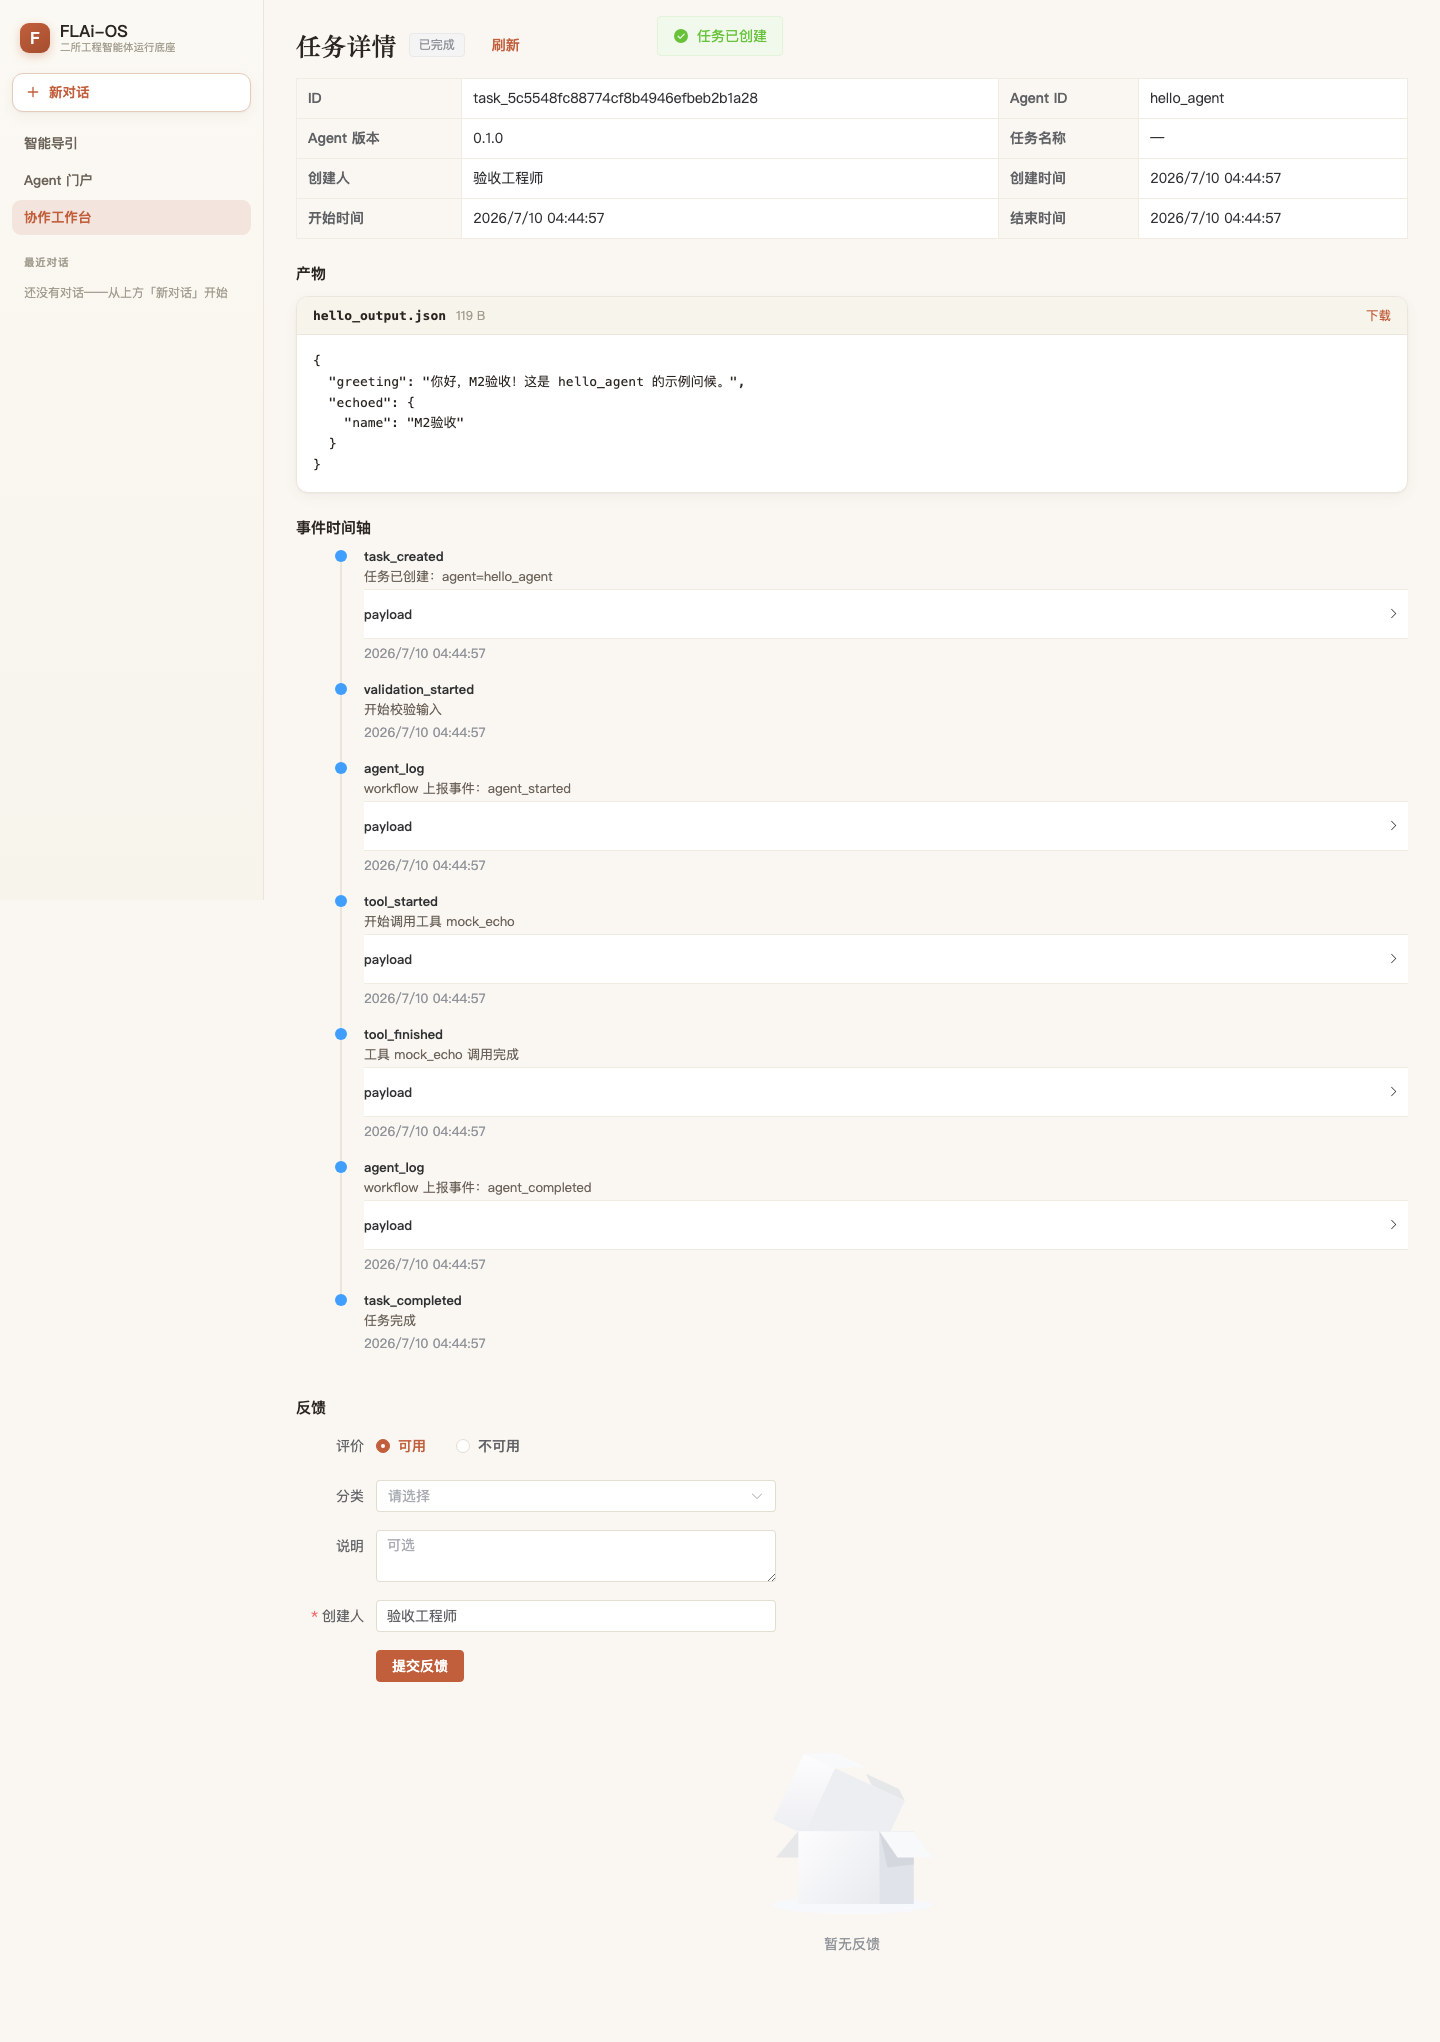
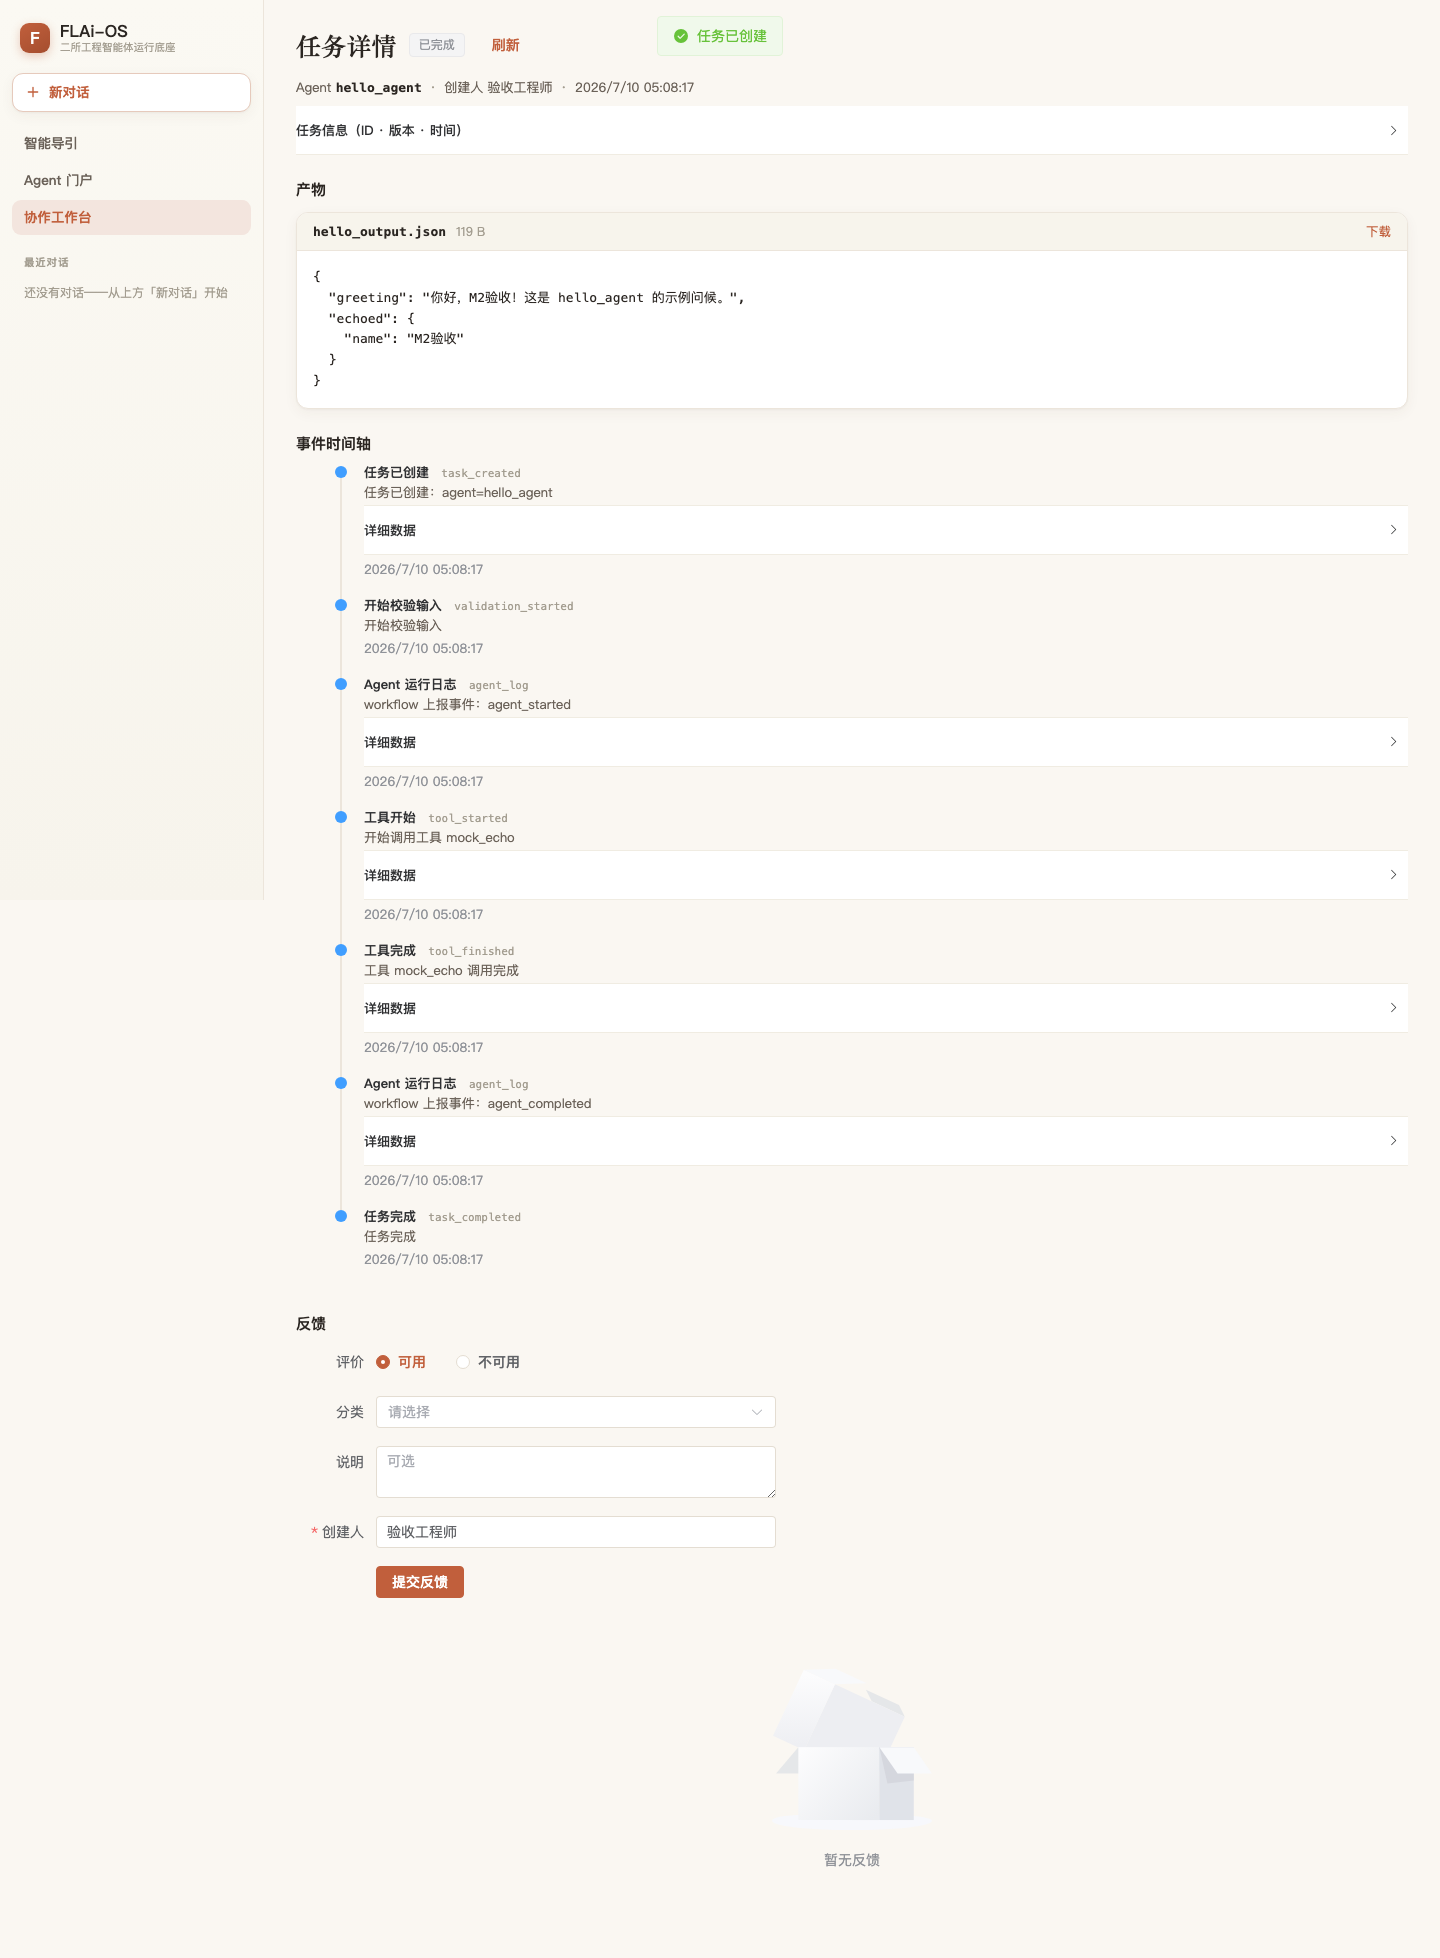
feat(detail): 详情页改工程师视角——元数据降次要 + 事件时间轴去黑话（P1-6）
采用障碍 P1-6：详情页首屏被 8 格元数据表（hash ID/版本/时间）占满，产物与决策
被下压；事件时间轴直显 task_created / payload 等开发术语。

修复（前端）：
- 元数据降为次要：首屏只留一行轻量上下文（Agent · 创建人 · 创建时间），完整
  ID/版本/时间折叠进「任务信息」collapse——产物与决策（承 P0-2）真正优先。
- 事件时间轴人话化：event_type → 中文标签（任务已创建/开始校验/模型调用/
  请求人工审核…，format.js EVENT_TYPE_LABEL，未知回退原串），原始类型保留为
  小号 mono 副标（工程师可查，且 m2 断言的原串仍在 DOM）；payload → 「详细数据」。

验证：M2 8/8（原始 event_type 仍在 body，断言不破）· 全链 7/7 · 工作台 6/6；
后端未改（434）。真环境自证：详情页 slim 上下文 + 折叠元数据 + 产物优先 +
时间轴中文标签（截图）。

confidence: high

diff --git a/frontend/src/views/TaskDetail.vue b/frontend/src/views/TaskDetail.vue
@@ -25,16 +25,29 @@
         <el-button text type="primary" class="refresh-btn" @click="loadTask()">刷新</el-button>
       </div>
 
-      <el-descriptions :column="2" border class="task-descriptions">
-        <el-descriptions-item label="ID">{{ task.id }}</el-descriptions-item>
-        <el-descriptions-item label="Agent ID">{{ task.agent_id }}</el-descriptions-item>
-        <el-descriptions-item label="Agent 版本">{{ task.agent_version }}</el-descriptions-item>
-        <el-descriptions-item label="任务名称">{{ task.name || "—" }}</el-descriptions-item>
-        <el-descriptions-item label="创建人">{{ task.created_by }}</el-descriptions-item>
-        <el-descriptions-item label="创建时间">{{ formatTime(task.created_at) }}</el-descriptions-item>
-        <el-descriptions-item label="开始时间">{{ formatTime(task.started_at) }}</el-descriptions-item>
-        <el-descriptions-item label="结束时间">{{ formatTime(task.finished_at) }}</el-descriptions-item>
-      </el-descriptions>
+      <!-- 首屏只留一行轻量上下文；完整元数据（ID/版本/时间）折叠为次要，让产物与决策优先。 -->
+      <div class="task-context">
+        <span>Agent <b>{{ task.agent_id }}</b></span>
+        <span class="ctx-dot">·</span>
+        <span>创建人 {{ task.created_by }}</span>
+        <span class="ctx-dot">·</span>
+        <span>{{ formatTime(task.created_at) }}</span>
+      </div>
+
+      <el-collapse class="task-meta-collapse">
+        <el-collapse-item title="任务信息（ID · 版本 · 时间）">
+          <el-descriptions :column="2" border class="task-descriptions">
+            <el-descriptions-item label="ID">{{ task.id }}</el-descriptions-item>
+            <el-descriptions-item label="Agent ID">{{ task.agent_id }}</el-descriptions-item>
+            <el-descriptions-item label="Agent 版本">{{ task.agent_version }}</el-descriptions-item>
+            <el-descriptions-item label="任务名称">{{ task.name || "—" }}</el-descriptions-item>
+            <el-descriptions-item label="创建人">{{ task.created_by }}</el-descriptions-item>
+            <el-descriptions-item label="创建时间">{{ formatTime(task.created_at) }}</el-descriptions-item>
+            <el-descriptions-item label="开始时间">{{ formatTime(task.started_at) }}</el-descriptions-item>
+            <el-descriptions-item label="结束时间">{{ formatTime(task.finished_at) }}</el-descriptions-item>
+          </el-descriptions>
+        </el-collapse-item>
+      </el-collapse>
 
       <el-alert
         v-if="task.error_message"
@@ -101,10 +114,13 @@
             :timestamp="formatTime(e.created_at)"
             :color="LEVEL_COLOR[e.level] || LEVEL_COLOR.info"
           >
-            <div class="event-type">{{ e.event_type }}</div>
+            <div class="event-type">
+              {{ eventTypeLabel(e.event_type) }}
+              <span class="event-type-raw">{{ e.event_type }}</span>
+            </div>
             <div class="event-message">{{ e.message }}</div>
             <el-collapse v-if="e.payload && Object.keys(e.payload).length">
-              <el-collapse-item title="payload">
+              <el-collapse-item title="详细数据">
                 <pre class="payload-json">{{ JSON.stringify(e.payload, null, 2) }}</pre>
               </el-collapse-item>
             </el-collapse>
@@ -161,7 +177,7 @@ import { ElMessage, ElMessageBox } from "element-plus";
 import { getTask, listTaskEvents, cancelTask, reviewTask } from "../api/tasks";
 import { downloadUrl, fetchOutputFile } from "../api/files";
 import { submitFeedback, listTaskFeedback, FEEDBACK_CATEGORIES } from "../api/feedback";
-import { statusLabel, statusTagType, formatTime, LEVEL_COLOR } from "../utils/format";
+import { statusLabel, statusTagType, formatTime, LEVEL_COLOR, eventTypeLabel } from "../utils/format";
 import MarkdownLite from "../components/MarkdownLite.vue";
 import { getSavedName, saveName } from "../utils/identity";
 
@@ -399,8 +415,36 @@ onUnmounted(clearPoll);
   letter-spacing: 0.2px;
   margin: 0;
 }
-.task-descriptions {
+.task-context {
+  display: flex;
+  flex-wrap: wrap;
+  align-items: center;
+  gap: 8px;
+  font-size: 13px;
+  color: var(--ink-soft);
+  margin-bottom: 10px;
+}
+.task-context b {
+  color: var(--ink);
+  font-family: var(--mono, monospace);
+  font-weight: 600;
+}
+.ctx-dot {
+  color: var(--ink-faint);
+}
+.task-meta-collapse {
   margin-bottom: 16px;
+  border-top: none;
+}
+.task-descriptions {
+  margin-top: 4px;
+}
+.event-type-raw {
+  font-family: var(--mono, monospace);
+  font-size: 11px;
+  color: var(--ink-faint);
+  margin-left: 8px;
+  font-weight: 400;
 }
 .section {
   margin-top: 24px;

diff --git a/frontend/src/utils/format.js b/frontend/src/utils/format.js
@@ -39,6 +39,29 @@ export const taskLampColor = (status) => {
 // 事件 level → timeline 颜色
 export const LEVEL_COLOR = { info: "#409EFF", warning: "#E6A23C", error: "#F56C6C" };
 
+// 事件类型 → 人话标签（详情页时间轴不再直显开发术语；未知类型回退原串）。
+export const EVENT_TYPE_LABEL = {
+  task_created: "任务已创建",
+  validation_started: "开始校验输入",
+  validation_failed: "输入校验未通过",
+  running_started: "开始运行",
+  parsing_started: "开始解析",
+  analyzing_started: "开始分析",
+  agent_log: "Agent 运行日志",
+  model_call: "模型调用",
+  tool_started: "工具开始",
+  tool_finished: "工具完成",
+  knowledge_search: "知识检索",
+  summary_generated: "生成汇总",
+  review_requested: "请求人工审核",
+  review_approved: "人工已批准",
+  review_rejected: "人工已拒绝",
+  task_completed: "任务完成",
+  task_failed: "任务失败",
+  task_cancelled: "任务已取消",
+};
+export const eventTypeLabel = (t) => EVENT_TYPE_LABEL[t] ?? t;
+
 // Agent 类型（agent.schema category 枚举）→ 中文标签 + 主题色 + 一句话定位。
 // 分类色标是门户视觉重点：不同类型 Agent 一眼可辨（任务书 §12.6 泛化验证）。
 // 配色**刻意避开信任色锁的五个语义槽**（绿=REAL / teal=人签 / amber=待核 /
